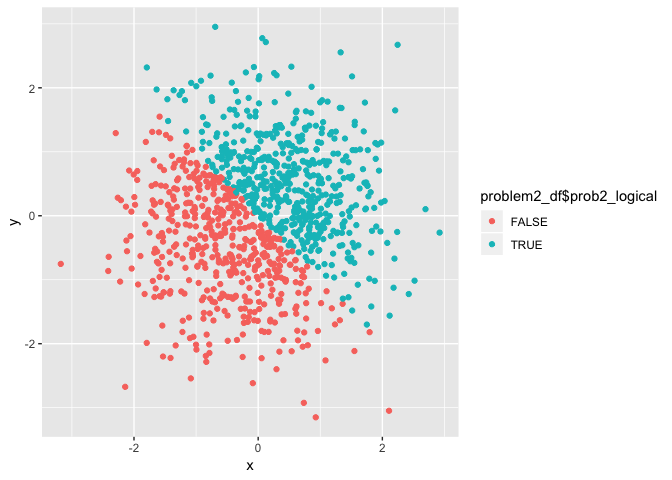
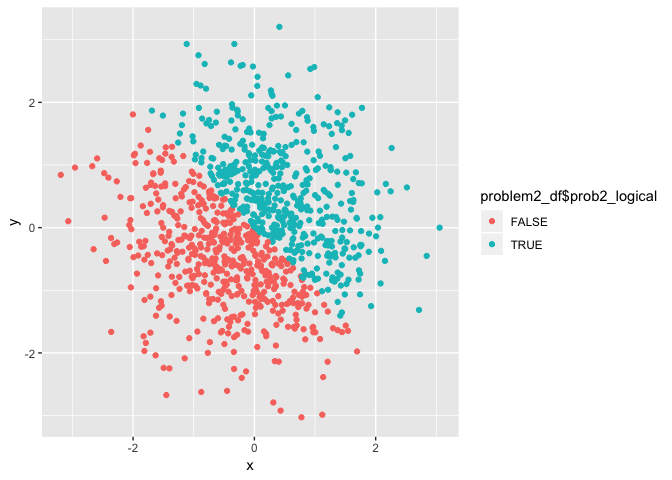
Final Commit to Git after adding some white space

diff --git a/p8105_hw1_edm2152.md b/p8105_hw1_edm2152.md
@@ -1,7 +1,7 @@
 p8105\_hw1\_edm2152
 ================
 Eric Morris
-September 15, 2018
+September 19, 2018
 
 Problem 1
 =========
@@ -15,18 +15,18 @@ The code chunk below creates a data frame comprised of:
 
 ``` r
 problem1_df = tibble(
-  prob1_random_sample = runif(10,0,5),
+  prob1_random_sample = runif(10, 0, 5),
   prob1_logical = prob1_random_sample > 2,
-  prob1_character = c("boy", "girl", "boy","boy", "girl","boy", "girl","boy", "girl","boy"),
+  prob1_character = c("boy", "girl", "boy", "boy", "girl", "boy", "girl", "boy", "girl", "boy"),
   prob1_factor = factor(prob1_character)
 )
 ```
 
 Below I try to take the mean of each of the four variables:
 
-The mean of the random sample variable is 2.4522228.
+The mean of the random sample variable is 3.2661795.
 
-The mean of the logical vector variable is 0.5.
+The mean of the logical vector variable is 0.9.
 
 The mean of the character vector variable is NA (this will not work).
 
@@ -81,7 +81,7 @@ problem2_df = tibble(
 )
 ```
 
-The problem 2 dataset contains 1000 rows (observations) and 5 columns (variables). The mean of x is -0.0026112 and the median of x is 0.0135086. The proportion of cases for which the logical vector is TRUE is 0.513.
+The problem 2 dataset contains 1000 rows (observations) and 5 columns (variables). The mean of x is -0.0486443 and the median of x is -0.0180732. The proportion of cases for which the logical vector is TRUE is 0.491.
 
 First scatterplot of y vs x (color is logical variable):
 

diff --git a/README.md b/README.md
@@ -1,5 +1,9 @@
 # p8105_hw1_edm2152
 
-Homework 1 Repository for P8105
+Homework 1 Repository for P8105 for Eric Morris (edm2152)
 
 ## Subsection 1 
+
+Updating ReadMe file after final commit and push from RStudio. 
+
+Submitted September 19, 2018. 
